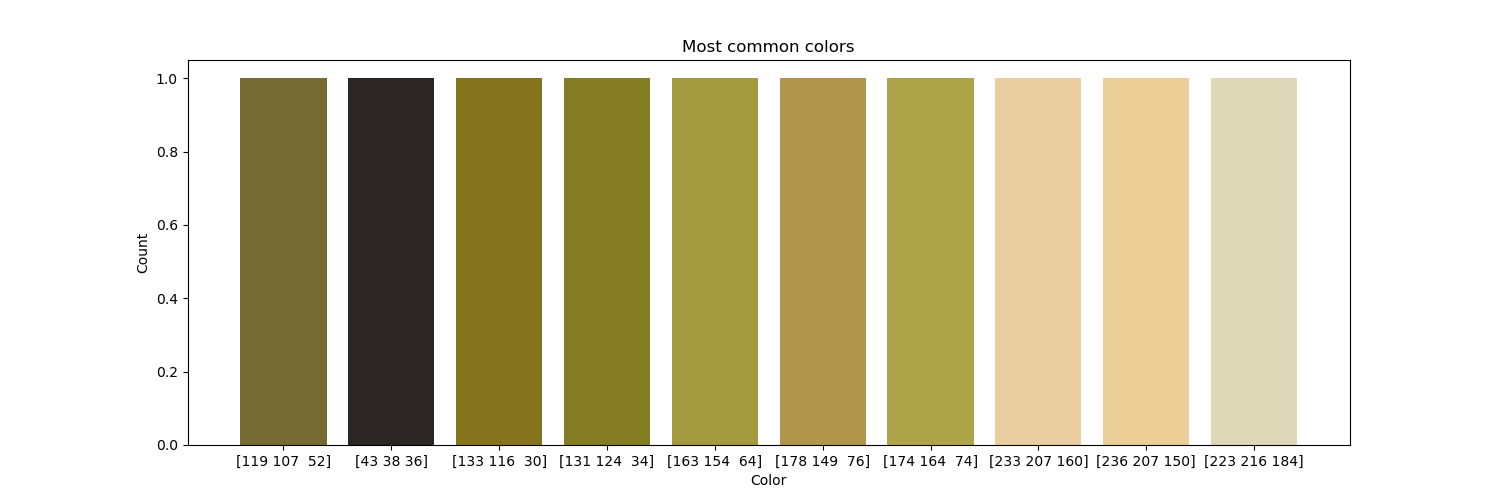
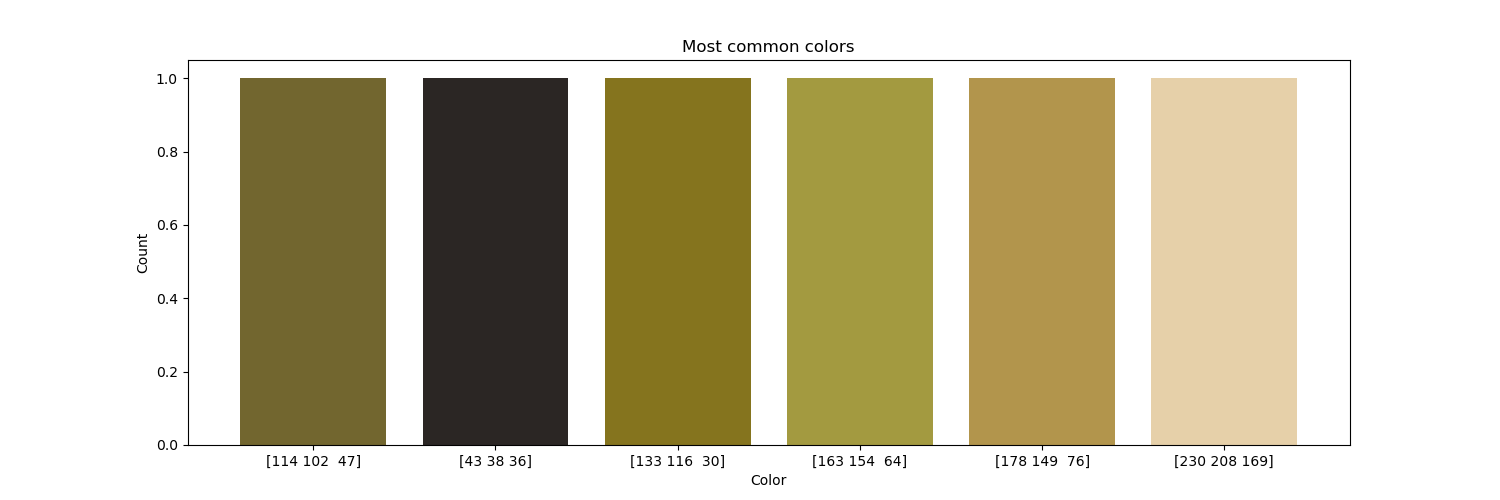
finalize color generating scheme

diff --git a/colors/standout.py b/colors/standout.py
@@ -1,4 +1,5 @@
 # %%
+from math import sqrt
 import os
 import cv2
 import numpy as np
@@ -10,6 +11,7 @@ import sys
 
 # %%
 quantization_factor = 5
+good_range = 6
 
 # %%
 
@@ -127,7 +129,7 @@ class UnionFind:
         return groups
 
 
-def get_standing_out_color(colors: np.array, n: int = 10):
+def reduce_colors(colors: np.array, n: int = -1):
     points = [color for color in colors]
     distances_list = []
     for i in range(len(points)):
@@ -138,10 +140,24 @@ def get_standing_out_color(colors: np.array, n: int = 10):
     distances_list = sorted(distances_list, key=lambda x: x[0])
     uf = UnionFind(len(points))
     ncomp = len(points)
-    for (_, i, j) in distances_list:
+
+    if n == -1:
+        print("Distances first: ", distances_list[0][0])
+    first_dist = - 1
+
+    for (dist, i, j) in distances_list:
         if not uf.is_same_set(i, j):
             uf.union(i, j)
             ncomp -= 1
+        if n == -1 and dist != 0:
+            print("Distances: ", dist)
+        if n == -1:
+            if first_dist == -1 and dist != 0:
+                first_dist = dist
+            if dist != 0 and dist > first_dist:
+                first_dist = dist
+                if ncomp <= good_range:
+                    break
         if ncomp == n:
             break
 
@@ -157,59 +173,45 @@ def get_standing_out_color(colors: np.array, n: int = 10):
 
 
 # Create Image
-
-
-def create_dominant_image_graph(image_name):
-    # Split with either / or \
-    output_name = image_name.split(
-        "/")[-1].split("\\")[-1].split(".")[0] + ".png"
-    print("output = ", output_name)
+def get_n_standing_out_color(image_name, n: int = -1):
     image = load_image(image_name)
     labs = slice_image(image, 10)
 
     lab_array = np.array(labs)
 
-    # Max l , a, b
-    # max_l = lab_array[:, 0].max()
-    # max_a = lab_array[:, 1].max()
-    # max_b = lab_array[:, 2].max()
-    # min_l = lab_array[:, 0].min()
-    # min_a = lab_array[:, 1].min()
-    # min_b = lab_array[:, 2].min()
-    # print(max_l, max_a, max_b)
-    # print(min_l, min_a, min_b)
-
     # Get the most common color
     colors, counts = np.unique(lab_array, axis=0, return_counts=True)
 
-    # max_l = colors[:, 0].max()
-    # max_a = colors[:, 1].max()
-    # max_b = colors[:, 2].max()
-    # min_l = colors[:, 0].min()
-    # min_a = colors[:, 1].min()
-    # min_b = colors[:, 2].min()
-    # print(max_l, max_a, max_b)
-    # print(min_l, min_a, min_b)
-    # Save to csv
-    # np.savetxt(f"./output/{output_name}.csv", colors, delimiter=",")
+    while (len(colors) > 50):
+        print("Reducing colors")
+        print(len(colors))
+        size = len(colors)
+        colors = reduce_colors(colors, int(sqrt(size)))
 
-    print(len(colors))
-    standingout_colors = get_standing_out_color(colors, 10)
+    if n != -1:
+        colors = reduce_colors(colors, n)
+    else:
+        colors = reduce_colors(colors)
+
+    standingout_colors = colors
     standingout_colors_rgb = [cv2.cvtColor(
         np.uint8([[color]]), cv2.COLOR_LAB2RGB)[0][0] for color in standingout_colors]
 
-    print(standingout_colors)
-    print(standingout_colors_rgb)
+    return standingout_colors_rgb
 
+
+def create_dominant_image_graph(standingout_colors, output_name="output.png"):
+
+    len_colors = len(standingout_colors)
     plt.figure(figsize=(15, 5))
-    plt.bar(range(10), [1 for _ in standingout_colors], color=[
-            (c[0] / 255, c[1] / 255, c[2] / 255) for c in standingout_colors_rgb])
-    plt.xticks(range(10), [f"{standingout_colors_rgb[i]}" for i in range(10)])
+    plt.bar(range(len_colors), [1 for _ in standingout_colors], color=[
+            (c[0] / 255, c[1] / 255, c[2] / 255) for c in standingout_colors])
+    plt.xticks(range(len_colors), [
+               f"{standingout_colors[i]}" for i in range(len_colors)])
     plt.xlabel("Color")
     plt.ylabel("Count")
     plt.title("Most common colors")
     plt.savefig(f"./output/standing_{output_name}")
-    # plt.show()
 
 
 if __name__ == "__main__":
@@ -220,4 +222,8 @@ if __name__ == "__main__":
     # Extract argument
     images = sys.argv[1:]
     for image in images:
-        create_dominant_image_graph(image)
+        output_name = image.split(
+            "/")[-1].split("\\")[-1].split(".")[0] + ".png"
+        standingout_colors = get_n_standing_out_color(image)
+        create_dominant_image_graph(
+            standingout_colors, output_name=output_name)
